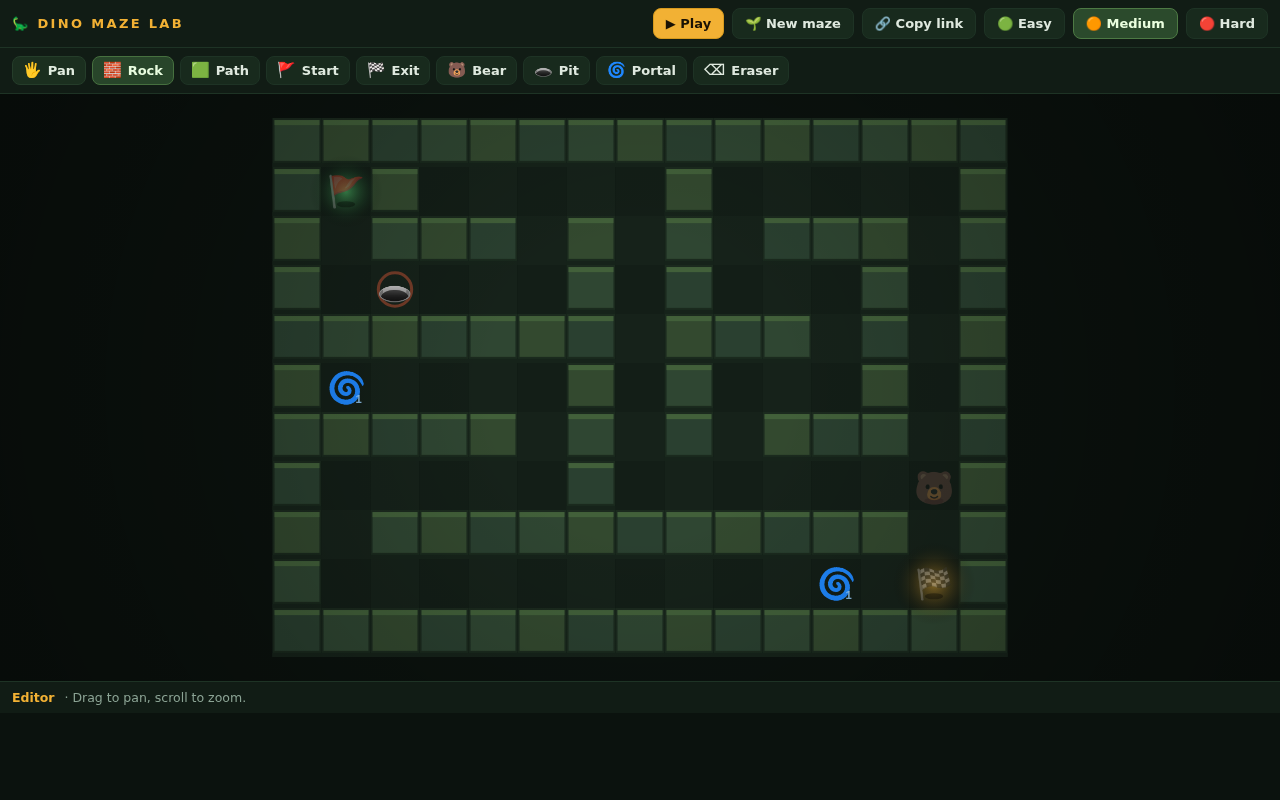
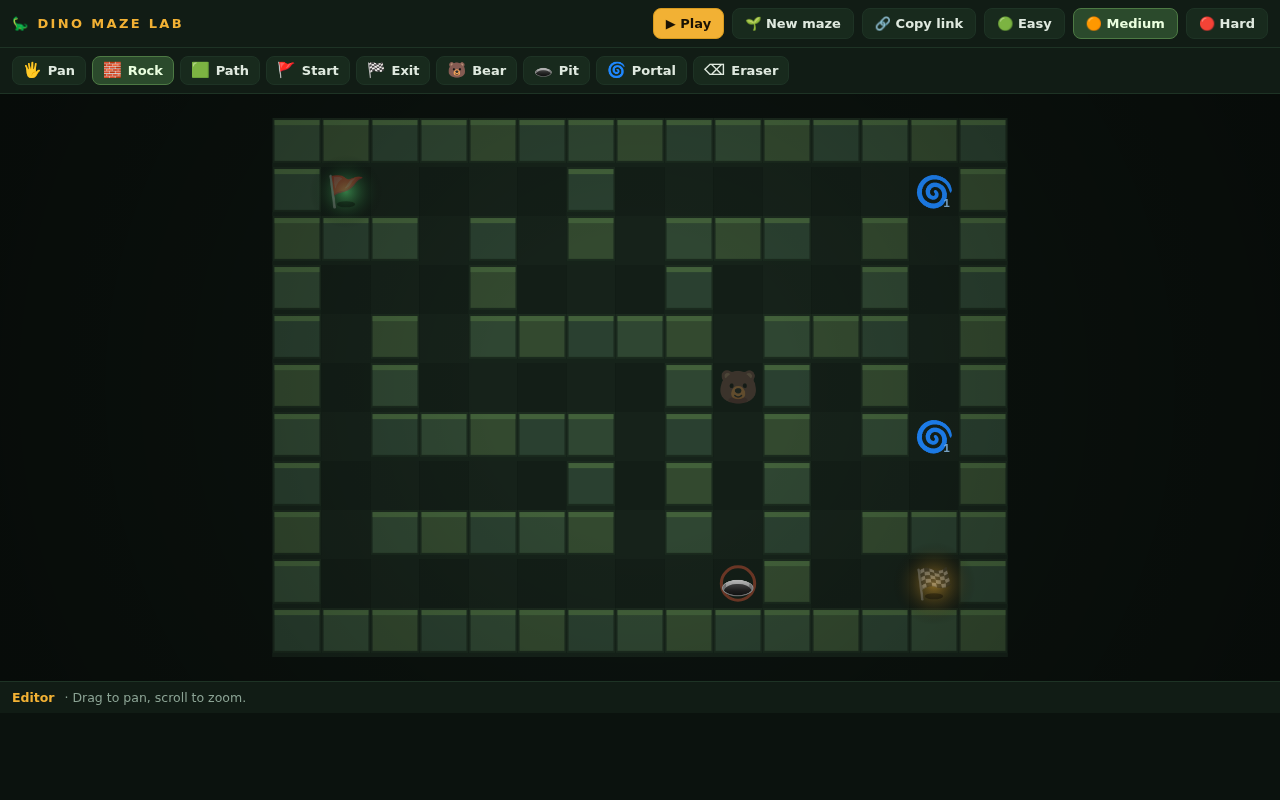
Guarantee generated mazes are finishable (feasibility gate)
- corridorRun(): models each bear's full patrol path (straight bounce corridor)
- feasible(): BFS start->exit treating pits + all bear corridors as hard-blocked
- buildMaze(): bears placed first against the gate, then pits; failed spots retried from the pool, whole maze re-rolled up to 60 attempts
- portals exempt (teleport can only help)
- tests: 75 fresh generations asserted feasible + spawn fairness + round-trips

diff --git a/tests/maze-test.js b/tests/maze-test.js
@@ -1,4 +1,4 @@
-// Difficulty tests for Dino Maze Lab (runs against the real game script, one eval scope)
+// Difficulty + feasibility tests for Dino Maze Lab (runs the real game script, one eval scope)
 const fs = require('fs');
 const html = fs.readFileSync('/home/container/.openclaw/workspace/maze-game/index.html', 'utf8');
 const script = html.match(/<script>([\s\S]*)<\/script>/)[1];
@@ -25,12 +25,15 @@ global.requestAnimationFrame = () => 0;
 global.confirm = () => false;
 global.prompt = () => '';
 global.alert = () => '';
+global.console.warn = () => {}; // keep output clean for the feasibility fallback
 
 const tests = `
 const snap = () => JSON.stringify({
   w: state.w, h: state.h, tiles: state.tiles,
   start: state.start, exit: state.exit, entities: state.entities,
 });
+const trapsOf = () => state.entities.filter(e => e.type === 'trap');
+const bearsOf = () => state.entities.filter(e => e.type === 'monster');
 
 /* boot smoke test: medium default */
 if (!state.tiles.length || state.w !== 15 || state.h !== 11) throw new Error('boot: maze not generated');
@@ -76,19 +79,19 @@ console.log('garbage rejection OK');
 /* ---- difficulty presets ---- */
 newMaze('easy');
 if (state.w !== 9 || state.h !== 7) throw new Error('easy size wrong');
-if (state.entities.filter(e => e.type === 'monster').length !== 0) throw new Error('easy should have no bears');
+if (bearsOf().length !== 0) throw new Error('easy should have no bears');
 if (state.entities.filter(e => e.type === 'portal').length !== 2) throw new Error('easy portals');
 console.log('easy OK: 9x7, entities:', state.entities.map(e => e.type).join(','));
 
 newMaze('medium');
 if (state.w !== 15 || state.h !== 11) throw new Error('medium size wrong');
-if (state.entities.filter(e => e.type === 'monster').length !== 1) throw new Error('medium bears');
+if (bearsOf().length !== 1) throw new Error('medium bears');
 console.log('medium OK: 15x11, entities:', state.entities.map(e => e.type).join(','));
 
 newMaze('hard');
 if (state.w !== 21 || state.h !== 15) throw new Error('hard size wrong');
-if (state.entities.filter(e => e.type === 'monster').length !== 3) throw new Error('hard bears');
-if (state.entities.filter(e => e.type === 'trap').length !== 2) throw new Error('hard pits');
+if (bearsOf().length !== 3) throw new Error('hard bears');
+if (trapsOf().length !== 2) throw new Error('hard pits');
 if (state.entities.filter(e => e.type === 'portal').length !== 4) throw new Error('hard portals');
 console.log('hard OK: 21x15, entities:', state.entities.map(e => e.type).join(','));
 
@@ -101,31 +104,22 @@ for (const k of ['easy','medium','hard']) {
 }
 console.log('round-trip OK for all 3 difficulties');
 
-/* BFS connectivity: exit + all entities reachable from start */
-function bfsReach() {
-  const seen = new Set(['1,1']);
-  const q = [[1,1]];
-  while (q.length) {
-    const [r,c] = q.pop();
-    for (const [dr,dc] of [[1,0],[-1,0],[0,1],[0,-1]]) {
-      const nr=r+dr, nc=c+dc;
-      if (state.tiles[nr] && state.tiles[nr][nc]===0 && !seen.has(nr+','+nc)) {
-        seen.add(nr+','+nc); q.push([nr,nc]);
-      }
-    }
-  }
-  return seen;
-}
+/* ---- FEASIBILITY: 25 fresh generations per difficulty ----
+   pits + bear patrol corridors are hard-blocked; the exit must still be
+   reachable around them, every single time. */
+let checked = 0;
 for (const k of ['easy','medium','hard']) {
-  newMaze(k);
-  const reach = bfsReach();
-  if (!reach.has(state.exit.r + ',' + state.exit.c)) throw new Error(k + ': exit unreachable!');
-  for (const e of state.entities)
-    if (!reach.has(e.r + ',' + e.c)) throw new Error(k + ': entity unreachable at ' + e.r + ',' + e.c);
+  for (let i = 0; i < 25; i++) {
+    newMaze(k);
+    if (!feasible(trapsOf(), bearsOf())) {
+      throw new Error(k + ' gen ' + i + ': maze infeasible (bear/pit blocks the only route)');
+    }
+    checked++;
+  }
 }
-console.log('connectivity OK: exit + all entities reachable in all 3 difficulties');
+console.log('feasibility OK: ' + checked + ' generated mazes all finishable');
 
-/* spawn-safety: no entity within manhattan 2 of start */
+/* spawn fairness: no entity within 2 tiles of start */
 for (const k of ['easy','medium','hard']) {
   newMaze(k);
   for (const e of state.entities) {

diff --git a/index.html b/index.html
@@ -231,9 +231,54 @@ function braidMaze(t, w, h, factor){
   }
 }
 
+/* maximal straight open run through (r,c) — this is exactly how far a bear
+   patrolling from there can travel (bears bounce along one axis) */
+function corridorRun(r,c){
+  const horiz = isFloor(r, c-1) || isFloor(r, c+1);
+  const dr = horiz ? 0 : 1, dc = horiz ? 1 : 0;
+  const cells = [{r, c}];
+  for(let nr = r-dr, nc = c-dc; isFloor(nr,nc); nr -= dr, nc -= dc) cells.push({r:nr, c:nc});
+  for(let nr = r+dr, nc = c+dc; isFloor(nr,nc); nr += dr, nc += dc) cells.push({r:nr, c:nc});
+  return cells;
+}
+
+/* feasibility gate: can the ranger reach the exit without ever stepping
+   on a pit or entering a bear's patrol corridor? If not, the maze is
+   unfinishable — placements are rejected/retried so this stays true. */
+function feasible(pits, bears){
+  const blocked = new Set();
+  const key = (r,c) => r + '_' + c;
+  for(const p of pits) blocked.add(key(p.r, p.c));
+  for(const b of bears) for(const cell of corridorRun(b.r, b.c)) blocked.add(key(cell.r, cell.c));
+  const startKey = key(state.start.r, state.start.c);
+  const seen = new Set([startKey]);
+  const q = [{ r: state.start.r, c: state.start.c }];
+  while(q.length){
+    const cur = q.pop();
+    for(const [dr,dc] of [[1,0],[-1,0],[0,1],[0,-1]]){
+      const nr = cur.r + dr, nc = cur.c + dc;
+      if(!isFloor(nr,nc) || blocked.has(key(nr,nc)) || seen.has(key(nr,nc))) continue;
+      if(nr === state.exit.r && nc === state.exit.c) return true;
+      seen.add(key(nr,nc));
+      q.push({ r:nr, c:nc });
+    }
+  }
+  return false;
+}
+
 function newMaze(diffKey){
   const d = DIFFICULTY[diffKey] || DIFFICULTY.medium;
   state.difficultyKey = diffKey in DIFFICULTY ? diffKey : 'medium';
+  for(let attempt = 0; attempt < 60; attempt++){
+    if(buildMaze(d)) break;
+    if(attempt === 59) console.warn('maze feasibility fallback after 60 attempts');
+  }
+
+  fitView();
+  if(state.mode === 'play') setMode('edit');
+}
+
+function buildMaze(d){
   state.w = d.w; state.h = d.h;
   state.tiles = generateMaze(d.w, d.h);
   braidMaze(state.tiles, d.w, d.h, d.braid);
@@ -251,24 +296,42 @@ function newMaze(diffKey){
         open.push({r,c});
   shuffle(open);
 
+  const bears = [], pits = [];
+  // bears first (need the most freedom): retry spots until the patrol
+  // corridor doesn't become an uncrossable wall
   for(let i=0;i<d.bears;i++){
-    const spot = open.pop();
-    if(spot) state.entities.push({ type:'monster', r:spot.r, c:spot.c, sr:spot.r, sc:spot.c });
+    let placed = false;
+    while(open.length){
+      const spot = open.pop();
+      bears.push(spot);
+      if(feasible(pits, bears)){ placed = true; break; }
+      bears.pop();
+    }
+    if(!placed) return false;
   }
+  // pits: never on the guaranteed route
+  for(let i=0;i<d.pits;i++){
+    let placed = false;
+    while(open.length){
+      const spot = open.pop();
+      pits.push(spot);
+      if(feasible(pits, bears)){ placed = true; break; }
+      pits.pop();
+    }
+    if(!placed) return false;
+  }
+  // portals: harmless in any placement (teleporting can only help)
   for(let i=0;i<d.portals;i++){
     const p1 = open.pop(), p2 = open.pop();
-    if(p1 && p2) state.entities.push(
+    if(!p1 || !p2) return false;
+    state.entities.push(
       { type:'portal', r:p1.r, c:p1.c },
       { type:'portal', r:p2.r, c:p2.c }
     );
   }
-  for(let i=0;i<d.pits;i++){
-    const spot = open.pop();
-    if(spot) state.entities.push({ type:'trap', r:spot.r, c:spot.c });
-  }
-
-  fitView();
-  if(state.mode === 'play') setMode('edit');
+  for(const b of bears) state.entities.push({ type:'monster', r:b.r, c:b.c, sr:b.r, sc:b.c });
+  for(const p of pits) state.entities.push({ type:'trap', r:p.r, c:p.c });
+  return true;
 }
 
 /* ---------------- camera ---------------- */
